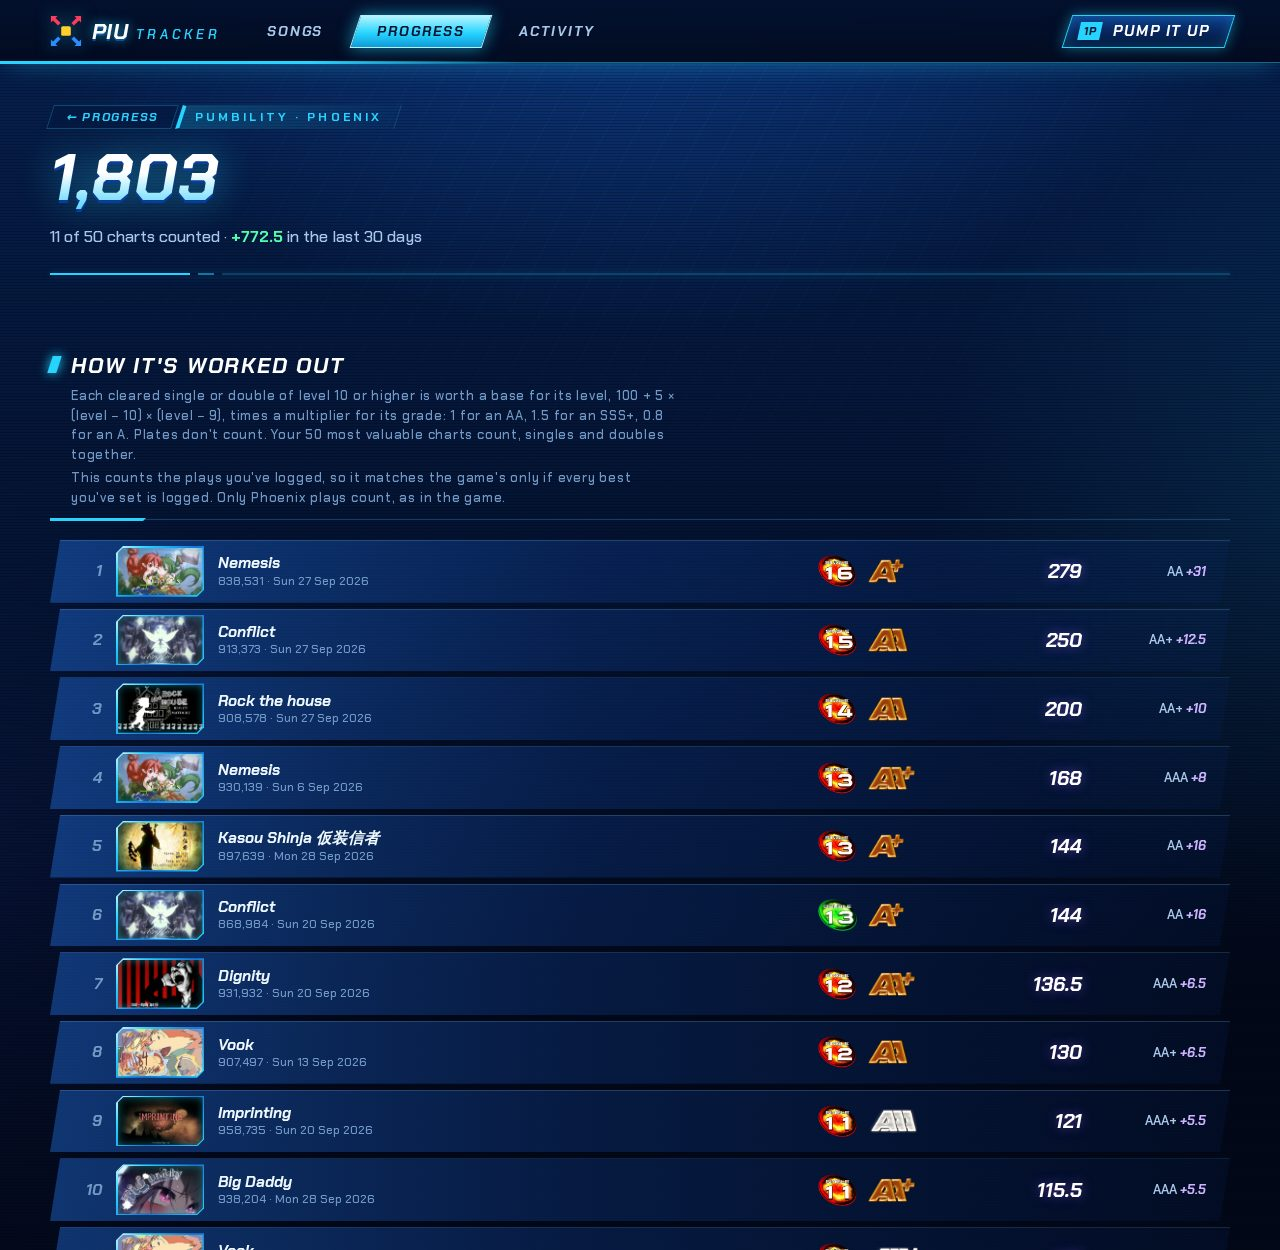
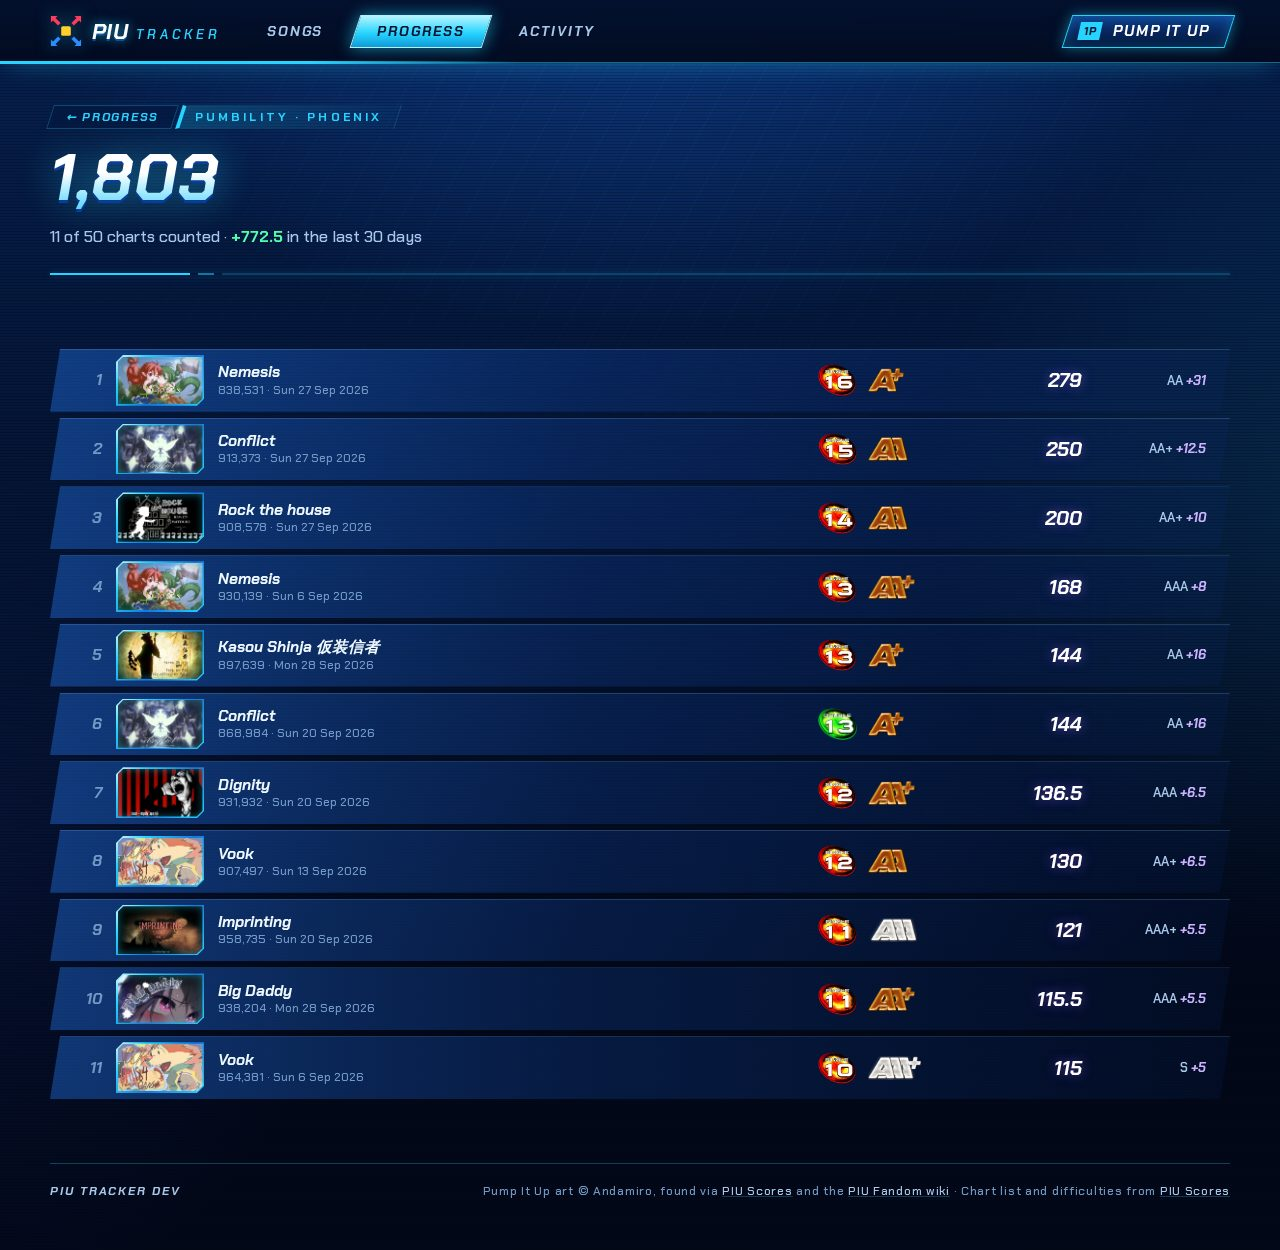
Drop the explanation of PUMBILITY from its page
The PUMBILITY page now goes straight from the total and its history to
the list of charts, and the Progress page no longer links to an
explanation. docs/progress.md still explains how it is worked out.

Claude-Session: https://claude.ai/code/session_016thTSarX5zQn4ECGG96ffA

diff --git a/internal/web/templates/pumbility.html b/internal/web/templates/pumbility.html
@@ -15,17 +15,6 @@
 {{end}}
 
 <section class="section">
-  <div class="section-head">
-    <div>
-      <h2>How it's worked out</h2>
-      {{if eq .Version.ID "phoenix2"}}
-      <p class="muted formula">Each cleared single or double of level 10 or higher is worth a base for its level, 130 + 5 × level (plus 5 per level over 24), times its grade's multiplier plus a small bonus for its plate: 1.37 for an AA, 1.50 for an SSS+, and up to 0.02 more for a Perfect Game. A single is priced as a double one level higher. Your 50 most valuable charts count. Phoenix 2 does not publish this: PIU Scores worked it out from the official breakdowns, and grades below A, which Phoenix 2 does not publish either, are taken as B from 700,000, C from 600,000 and D from 500,000.</p>
-      {{else}}
-      <p class="muted formula">Each cleared single or double of level 10 or higher is worth a base for its level, 100 + 5 × (level − 10) × (level − 9), times a multiplier for its grade: 1 for an AA, 1.5 for an SSS+, 0.8 for an A. Plates don't count. Your 50 most valuable charts count, singles and doubles together.</p>
-      {{end}}
-      <p class="muted formula">This counts the plays you've logged, so it matches the game's only if every best you've set is logged. Only {{.Version.Name}} plays count, as in the game.</p>
-    </div>
-  </div>
   {{if .Rating.Charts}}
   <ol class="rated-list">
     {{range .Rating.Charts}}

diff --git a/internal/web/templates/progress.html b/internal/web/templates/progress.html
@@ -22,7 +22,7 @@
     <a class="more" href="{{progressURL "pumbility" .Version}}">Your 50 charts <span aria-hidden="true">→</span></a>
   </div>
   {{if .History}}<div class="graph is-active rating-graph">{{ratingChart .}}</div>{{end}}
-  <p class="rating-note">{{if .Full}}Your 50 most valuable charts count. A new clear raises it only if it is worth more than {{rating .Cut}}, the least valuable of them.{{else}}Your 50 most valuable charts count, and you have {{len .Pool}}, so every clear of level 10 or higher adds its full value.{{end}} <a href="{{progressURL "pumbility" .Version}}">How it's worked out</a></p>
+  <p class="rating-note">{{if .Full}}Your 50 most valuable charts count. A new clear raises it only if it is worth more than {{rating .Cut}}, the least valuable of them.{{else}}Your 50 most valuable charts count, and you have {{len .Pool}}, so every clear of level 10 or higher adds its full value.{{end}}</p>
 </section>
 {{end}}
 

diff --git a/internal/web/static/app.css b/internal/web/static/app.css
@@ -1240,8 +1240,6 @@ span.ball.m-coop { font-size: 12px; }
 .rating-graph { margin-top: 14px; }
 .rating-card > .rating-graph:first-child { margin-top: 0; }
 .rating-note { margin: 10px 4px 0; font-size: 13px; color: var(--text-2); }
-.rating-note a, .formula a { color: var(--cyan); }
-.formula { margin: 6px 0 0 21px; max-width: 76ch; line-height: 1.5; }
 
 .next-grid { display: grid; grid-template-columns: repeat(2, minmax(0, 1fr)); gap: 16px; }
 .next-group { padding: 12px 14px 14px; }
@@ -1415,7 +1413,6 @@ a.frow-inner { color: inherit; }
   .rated-inner { grid-template-columns: 22px 64px minmax(0, 1fr) auto; padding: 8px 14px 8px 12px; }
   .rated-thumb { width: 64px; }
   .rated-value { font-size: 17px; }
-  .formula { margin-left: 19px; }
 }
 
 /* ---------- Responsive ---------- */

diff --git a/internal/web/progress_test.go b/internal/web/progress_test.go
@@ -28,7 +28,7 @@ func TestProgressPages(t *testing.T) {
 		`href="/progress/d28"`,
 		// A clear at AA of an S16 adds its full value while the pool is not full.
 		`What a clear at AA would add to your PUMBILITY">+310</span>`)
-	wantNone(t, "progress", body, `class="chips version-filter"`, `href="/progress/coop2"`)
+	wantNone(t, "progress", body, `class="chips version-filter"`, `href="/progress/coop2"`, "worked out")
 
 	_, body = get(t, h, "/progress/s16")
 	wantAll(t, "S16", body,
@@ -57,9 +57,8 @@ func TestProgressPages(t *testing.T) {
 		`<h1 class="display">1,803</h1>`,
 		`<span class="rated-song">Nemesis</span><span class="rated-sub">838,531 · Sun 27 Sep 2026</span>`,
 		`<span class="rated-value">279</span>`,
-		`AA <b>+31</b>`,
-		`100 + 5 × (level − 10) × (level − 9)`)
-	wantNone(t, "PUMBILITY", body, "rated-cut", "est.")
+		`AA <b>+31</b>`)
+	wantNone(t, "PUMBILITY", body, "rated-cut", "est.", "worked out")
 	if n := strings.Count(body, `<li class="rated">`); n != 11 {
 		t.Errorf("%d rated charts, want 11", n)
 	}
@@ -166,7 +165,7 @@ func TestPhoenix2Progress(t *testing.T) {
 	wantAll(t, "Phoenix progress", body, `<h1 class="display">Phoenix</h1>`, `<span class="rating-value">115.5</span>`, `href="/progress/s11?version=phoenix"`)
 
 	_, body = get(t, h, "/progress/pumbility")
-	wantAll(t, "PUMBILITY", body, `130 + 5 × level`, `est.</small>`, `alt="Marvelous Game"`, `<span class="rated-value">265.24</span>`)
+	wantAll(t, "PUMBILITY", body, `est.</small>`, `alt="Marvelous Game"`, `<span class="rated-value">265.24</span>`)
 
 	// The Phoenix chart the chart list says is the same steps carries on.
 	_, body = get(t, h, "/song/big-daddy")
